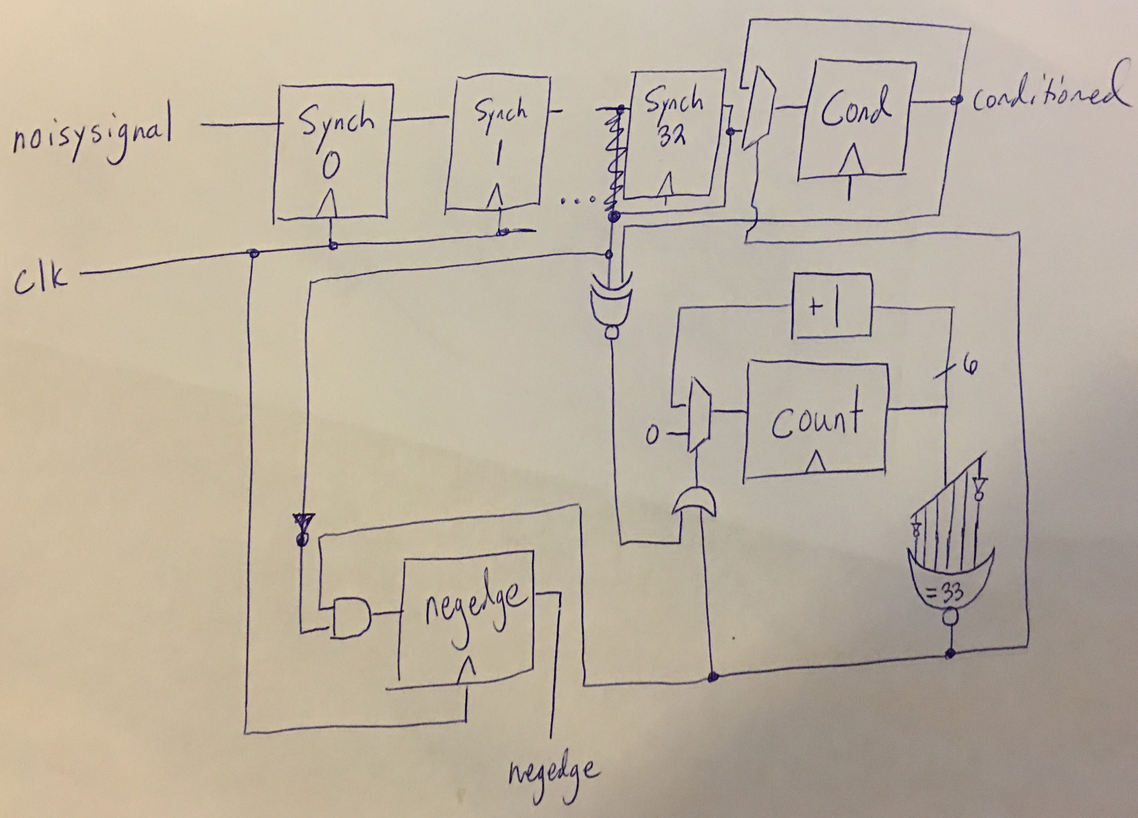
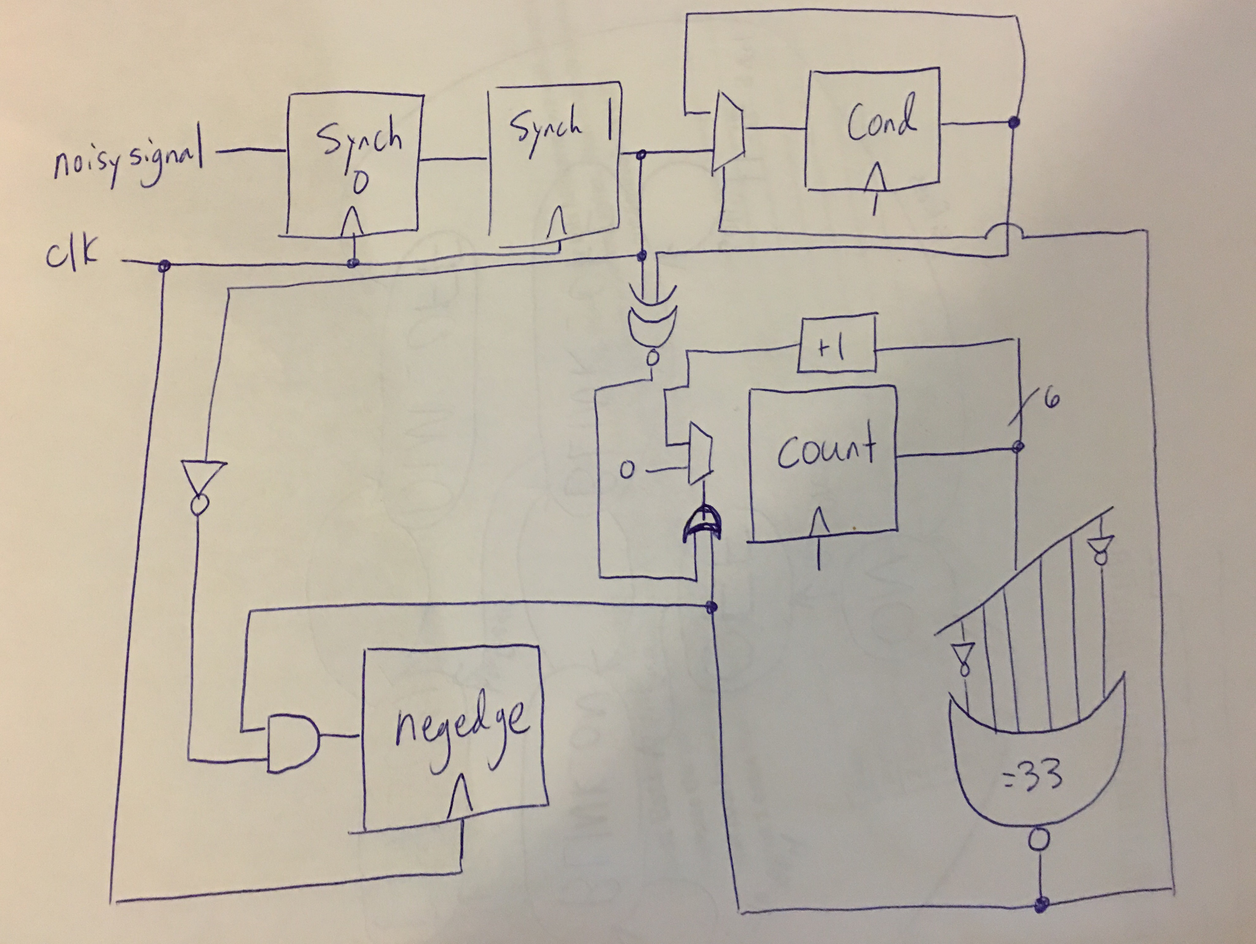
more images and diagrams

diff --git a/Midterm/writeup.md b/Midterm/writeup.md
@@ -23,18 +23,59 @@ There are four operational modes for the bike light. They are, in order:
 This bike light has a single input button. The button has two states, `HIGH` when pressed and `LOW` otherwise. The input button causes the current state to shift forward on its negative edge (and in the case of the button being pressed while the state is Dim, the state is reset to Off). We increment the state on the negative edge because the light switches state when the button is released. This is a design decision that we make.
 
 ### Output
-
+
 Our output is a single LED which can either be on or off. The following is a graph of LED output for each operational mode. Note that the LED can only be `HIGH` or `LOW`, so for the Dim state, we use PWM to simulate dimming.
 
-![](images/led_states,jpg)
+![](images/led_states.jpg)
 
 ### FSM
 
-Shown below is an FSM representation of our bike light. There are six different states for the FSM:
+Shown below is an FSM representation of our bike light.
+
+![](images/fsm.jpg)
+
+There are six different states for the FSM:
 
 * Off -- The light is off. This state transitions to On on a button release.
 * On -- The light is on. This state transitions to Blink_On on a button release.
-* Blink_On -- The light is in the Blinking operational mode. The light is currently on. It stays in this FSM state for 16,384 clock cycles, and then transitions to Blink_Off. On a button release, this state transitions to Dim_On.
+* Blink_On -- The light is in the Blinking operational mode. The light is currently on. It stays in this FSM state for 16,384 clock cycles (since the count starts from 0, the transition occurs after `count=16,383`), and then transitions to Blink_Off. On a button release, this state transitions to Dim_On.
 * Blink_Off -- The light is currently off. It stays in this FSM state for 16,384 clock cycles, and then transitions to Blink_On. On a button release, this state transitions to Dim_On.
 * Dim_On -- The light is in the Dim operational mode. The light is currently on. It transitions to Dim_Off every clock cycle, unless there is a button release, in which case this state transitions to Off.
 * Dim_Off -- The light is in the Dim operational mode. The light is currently off. It transitions to Dim_On every clock cycle, unless there is a button release, in which case this state transitions to Off.
+
+The decision to split Blink and Dim into two different FSM states was made in order to make setting the LED output more simple. By splitting the stages, each stage directly corresponds to an LED output.
+
+### Block Diagram
+
+Because all program logic is handles by our FSM and how it transitions between stages, our high level block diagram is quite simple.
+
+![](images/simple_block.jpg)
+
+We take the button, condition it, and then pass on whether or not the button was just released to the FSM. The FSM uses the button press along with its own logic to determine which state to be in, and then sets the output of the LED accordingly.
+
+#### Input Conditioner
+
+![](images/conditioner.jpg)
+
+The input conditioner conditions an output my only changing its output if the input has been the same for 33 consecutive clock cycles. We do this in order to ensure the flickering in the first millisecond after a button press does not affect output. (Each clock cycle is 1/32,768=0.03 milliseconds. 33 clock cycles = 1.007 milliseconds.) The conditioner passes the input through 2 flip flops. When the output of the second flip flop is different than the current output, we increment count. When `count=33`, we change the output, reset `count`, and set `negedge` if the new value is `0`.
+
+* Inputs -- `noisysignal` (the button) and `clk`
+* Outputs -- `conditioned`
+* Size --
+
+#### FSM
+
+![](images/fsm_block.jpg)
+
+The FSM transitions between the six states previously described. The top mux sets the next stage if there is no button press (On and Off stay in their stage, Blink_on and Blink_off transition between eachother when the `count=16,383`, and Dun_On and Dim_Off always transition to eachother). The second mux sets the next stage if the button was released (Off -> On -> Blink -> Dim). The outputs of both of these muxes is selected by another mux whose control signal is `negedge_in`.
+
+The third mux sets the `count`. The `count` is `0` unless we are in a Blink stage, in which case `count=count+1` unless `count=16,383`.
+
+The buttom mux sets the output of the LED based on the current state. The LED is on in states On, Blink_On, and Dim_on.
+
+Both `count` and `curr_state` are set using positive-edge-triggered D flip flops. The design decision to not write-enable these flip flops and rather update these values every clock cycle was done in order to simplify the design of the FSM, perhaps at the cost of efficiency. Additionally, some muxes could have been eliminated and replaced with gate-logic, which again, was not done in order to simplify design and maximize readability.
+
+* Inputs -- `Clk` and `negedge_in`
+* Outputs -- `LED`
+* Size --
+
